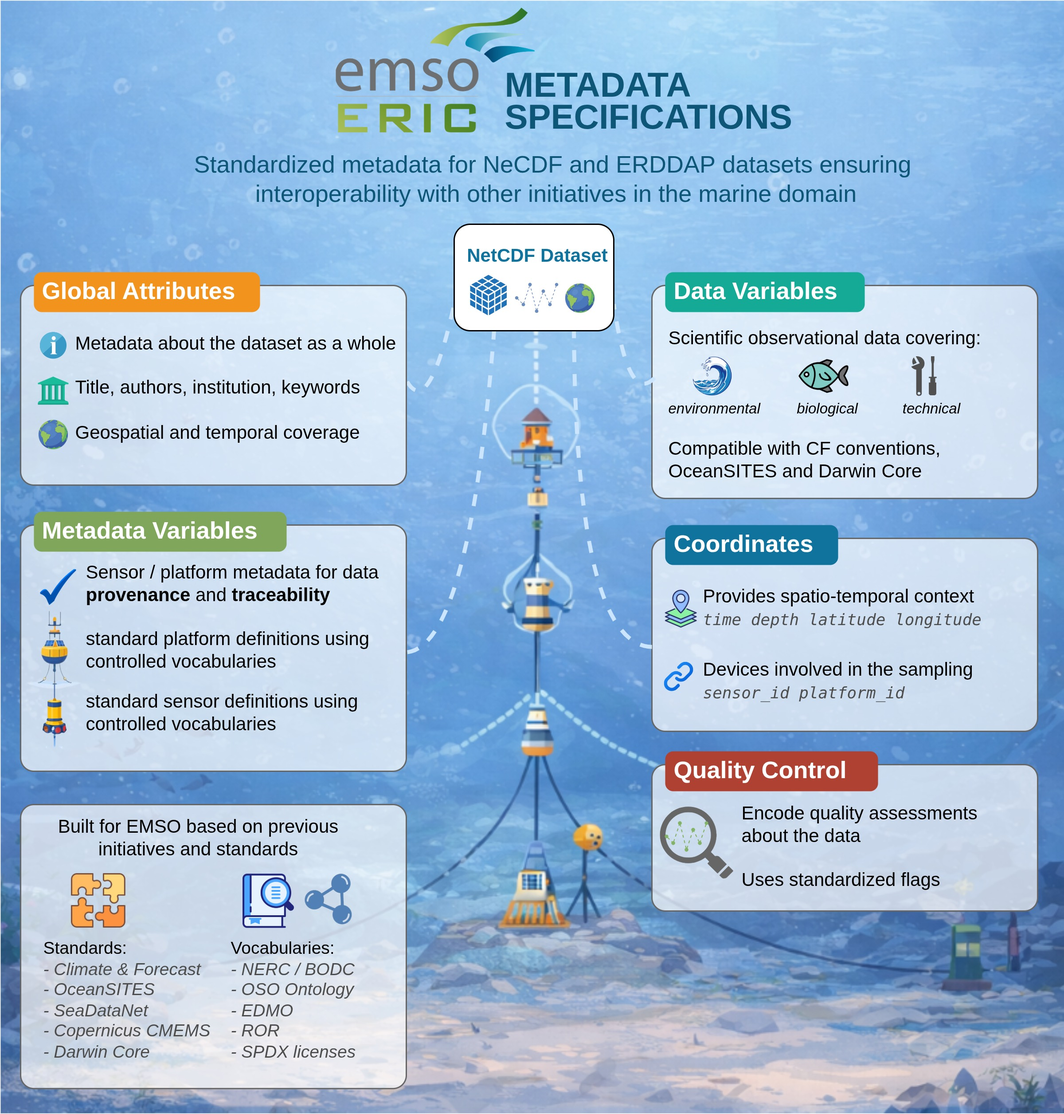
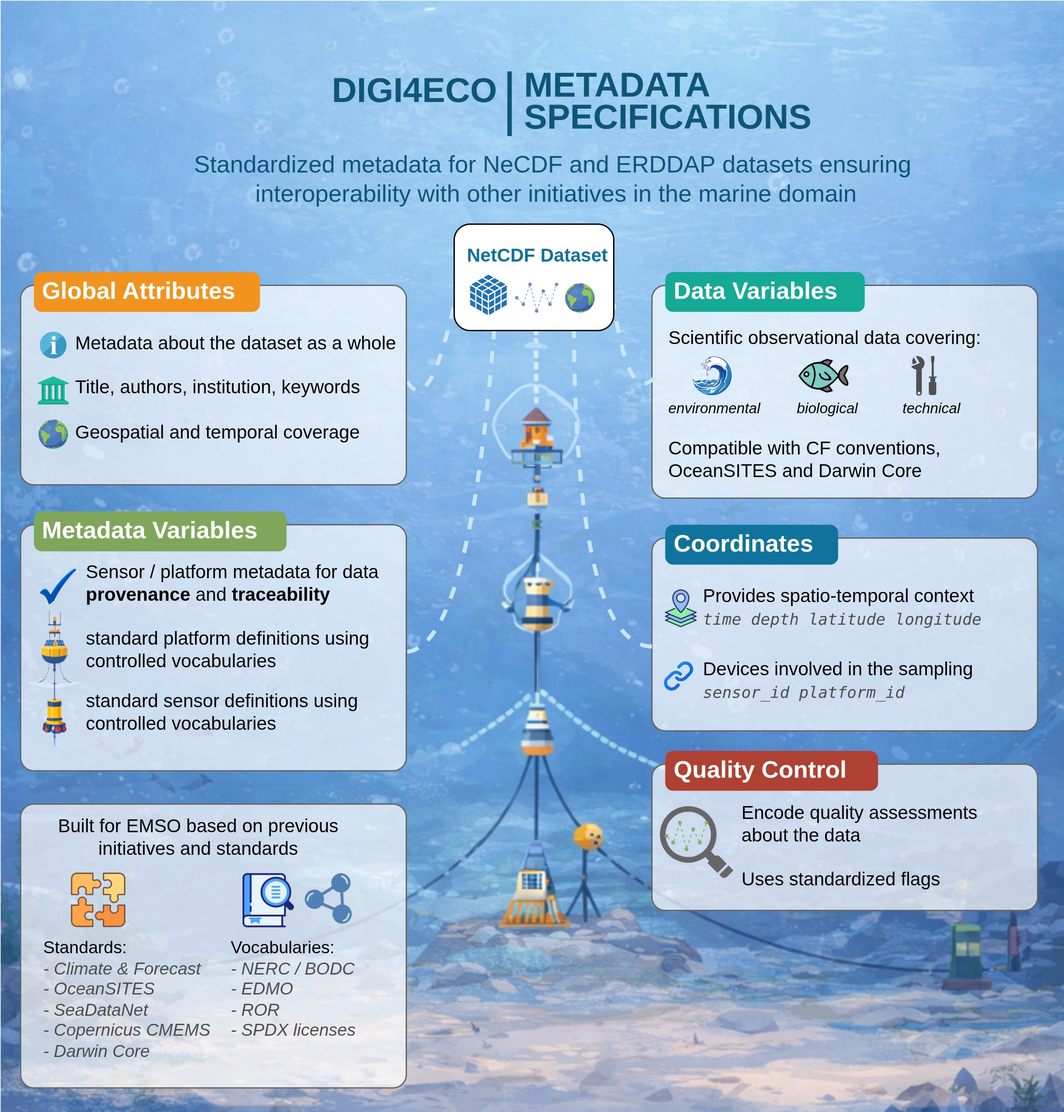
minor fix

diff --git a/README.md b/README.md
@@ -11,7 +11,7 @@ compliant, high-quality datasets that are FAIR (Findable, Accessible, Interopera
 Several example datasets compliant with the latest version of the specifications are available at our [Example ERDDAP](https://netcdf-dev.obsea.es/es/erddap/index.html).
 
 <p align="center">
-  <img height="800x" src="https://github.com/digi4eco/digi4eco-metadata-specifications/blob/develop/images/sea-infographic.jpg?raw=true" alt="infographic">
+  <img height="800x" src="https://github.com/digi4eco/digi4eco-metadata-specifications/blob/main/images/sea-infographic.jpg?raw=true" alt="infographic">
 </p>
 
 ## Summary ##

diff --git a/DIGI4ECO_Metadata_Specifications.md b/DIGI4ECO_Metadata_Specifications.md
@@ -1,4 +1,4 @@
-# DIGI4ECO Metadata Specification #
+# ERDDAP Metadata Specification #
 
 ## Introduction ##
 
@@ -52,7 +52,7 @@ for attributes, when multiple values are encoded into a single attribute, they s
 lists". Consecutive words in such a list are separated by one or more adjacent spaces.
 
 ```yaml
-  projects: "DIGI4ECODEV DIGI4ECO-Link ENVRI-FAIR"
+  projects: "DIGI4ECO ANERIS ENVRI-FAIR"
 ```
 
 In special circumstances a blank-separated list is not suitable, like in a list of author names. These cases, explicitly
